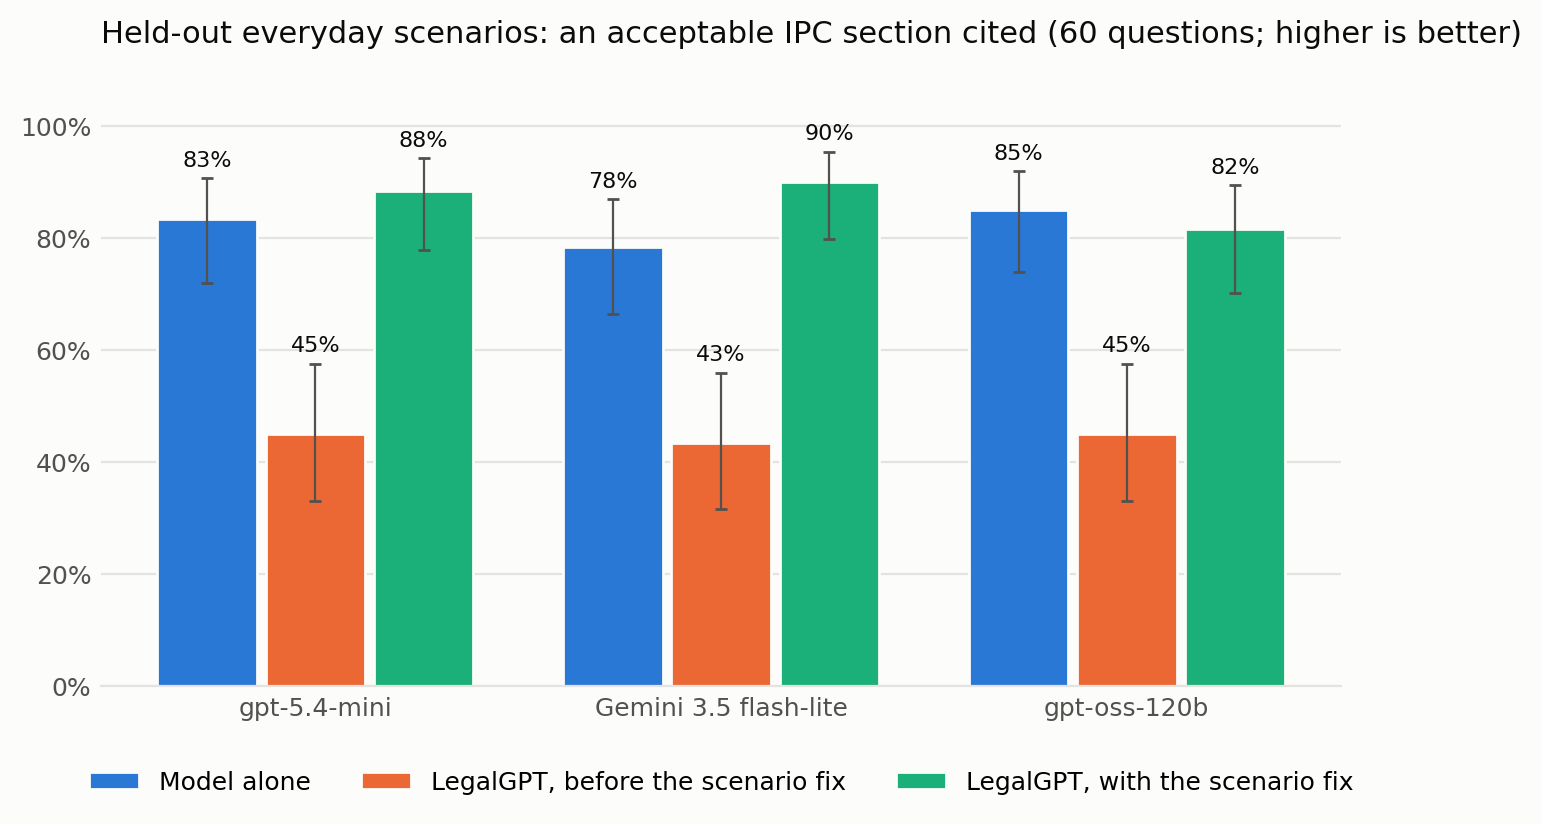
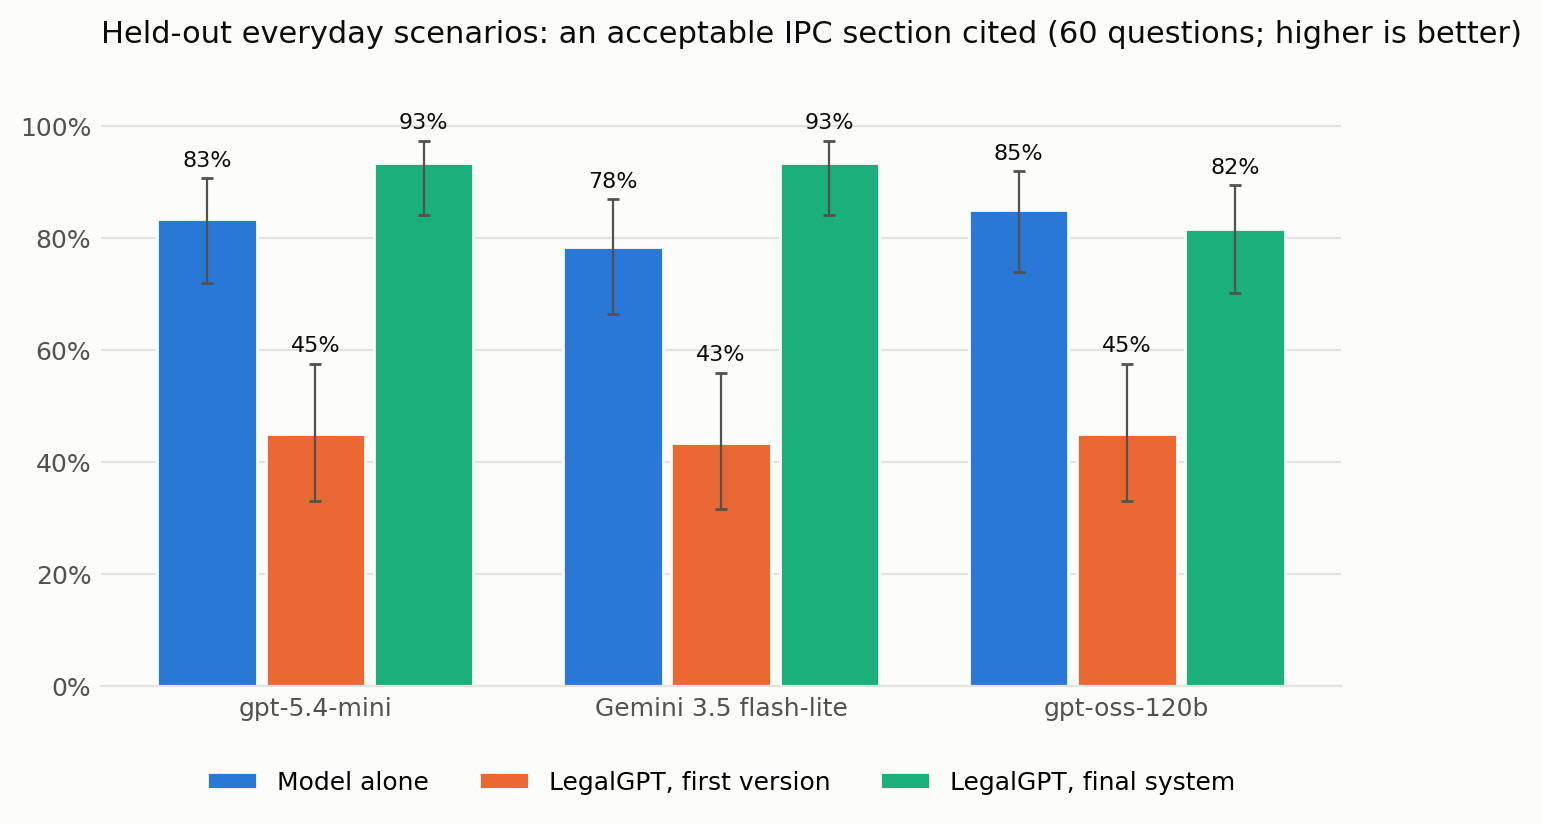
eval: final-system runs for all three hosted models; headline table, figures and report updated
Statute 98-100% vs 41-81% alone (p<=0.002); scenarios 93/93/82% vs 83/78/85% (Gemini p=0.035);
0% wrong punishments and 0% civil questions as offences for all three.

Changed region(s): [[0.0623, 0.9405, 0.8716, 0.9709], [0.4981, 0.1214, 0.5914, 0.2427], [0.2179, 0.1214, 0.3113, 0.2427]]

diff --git a/backend/scripts/make_figures.py b/backend/scripts/make_figures.py
@@ -2,7 +2,7 @@
 
   fig1_safety     wrong punishments and civil questions answered as offences: each model alone vs
                   inside LegalGPT (95% Wilson intervals)
-  fig2_scenarios  held-out everyday scenarios: model alone, LegalGPT before the scenario fix, after it
+  fig2_scenarios  held-out everyday scenarios: model alone, LegalGPT's first version, the final system
   fig3_ablation   retrieval on the held-out scenarios as each component is added
   fig4_size       the local models by size (1.5B / 3B / 7B), once their benchmark runs exist
 
@@ -34,10 +34,10 @@ from paired_tests import items_and_ipc, outcomes  # noqa: E402
 OUT = REPO_ROOT / "docs" / "figures"
 SURFACE, INK, INK2, GRID = "#fcfcfb", "#0b0b0b", "#52514e", "#e4e3df"
 SERIES = ["#2a78d6", "#eb6834", "#1baf7a"]  # categorical slots 1-3 (blue, orange, aqua)
-MODELS = [("gpt-5.4-mini", "closed_openai_gpt-5.4-mini", "legalgpt_openai_gpt-5.4-mini", "legalgpt_openai_gpt-5.4-mini_rw"),
+MODELS = [("gpt-5.4-mini", "closed_openai_gpt-5.4-mini", "legalgpt_openai_gpt-5.4-mini", "legalgpt_openai_gpt-5.4-mini_final"),
           ("Gemini 3.5 flash-lite", "closed_gemini_gemini-3.5-flash-lite", "legalgpt_gemini_gemini-3.5-flash-lite",
-           "legalgpt_gemini_gemini-3.5-flash-lite_rw"),
-          ("gpt-oss-120b", "closed_openai_gpt-oss-120b", "legalgpt_openai_gpt-oss-120b", "legalgpt_openai_gpt-oss-120b_rw")]
+           "legalgpt_gemini_gemini-3.5-flash-lite_final"),
+          ("gpt-oss-120b", "closed_openai_gpt-oss-120b", "legalgpt_openai_gpt-oss-120b", "legalgpt_openai_gpt-oss-120b_final")]
 
 
 def wilson(k: int, n: int) -> tuple[float, float, float]:
@@ -118,8 +118,8 @@ def fig_scenarios(items, ipc) -> None:
     style(ax, "Held-out everyday scenarios: an acceptable IPC section cited (60 questions; higher is better)")
     grouped(ax, [m[0] for m in MODELS], [
         ("Model alone", [rate(outcomes(m[1], items, ipc), metric) for m in MODELS]),
-        ("LegalGPT, before the scenario fix", [rate(outcomes(m[2], items, ipc), metric) for m in MODELS]),
-        ("LegalGPT, with the scenario fix", [rate(outcomes(m[3], items, ipc), metric) for m in MODELS]),
+        ("LegalGPT, first version", [rate(outcomes(m[2], items, ipc), metric) for m in MODELS]),
+        ("LegalGPT, final system", [rate(outcomes(m[3], items, ipc), metric) for m in MODELS]),
     ], ymax=110)
     ax.legend(frameon=False, fontsize=9, loc="upper center", bbox_to_anchor=(0.5, -0.1), ncol=3)
     save(fig, "fig2_scenarios")

diff --git a/backend/scripts/paired_tests.py b/backend/scripts/paired_tests.py
@@ -43,6 +43,10 @@ PAIRS = [  # (system A, system B, metrics)
     ("legalgpt-lora_v0.7-3b", "legalgpt-heavy_v0.7-7b", list(METRICS)),
     ("legalgpt-lora_v0.7-1.5b", "legalgpt-lora_v0.7-3b", list(METRICS)),
     ("legalgpt-lora_v0.7-1.5b", "legalgpt-heavy_v0.7-7b", list(METRICS)),
+    ("closed_openai_gpt-5.4-mini", "legalgpt_openai_gpt-5.4-mini_final", list(METRICS)),
+    ("legalgpt_openai_gpt-5.4-mini_rw", "legalgpt_openai_gpt-5.4-mini_final", list(METRICS)),
+    ("closed_gemini_gemini-3.5-flash-lite", "legalgpt_gemini_gemini-3.5-flash-lite_final", list(METRICS)),
+    ("closed_openai_gpt-oss-120b", "legalgpt_openai_gpt-oss-120b_final", list(METRICS)),
 ]
 
 

diff --git a/docs/reports/paper_analysis.md b/docs/reports/paper_analysis.md
@@ -15,6 +15,51 @@ All numbers come from the benchmark runs in `data/reports/bench/baselines/` (see
 20 definition questions, 60 held-out scenarios, 30 out-of-scope questions). Scenario and out-of-scope
 labels are **silver** (AI-written) and still need legal review. Scripts are named in each section.
 
+## 0. Headline: the final system (runs `*_final`, 2026-10-15)
+
+These are the numbers for the paper. The final system has every retrieval fix: the lexicon, the
+query rewrite, the retrained scope check and the definition lookup. Each hosted model is compared
+with itself answering alone, on the same questions (exact McNemar tests).
+
+| model | measure | n | model alone | LegalGPT | only alone right | only LegalGPT right | p |
+|---|---|---|---|---|---|---|---|
+| gpt-5.4-mini | right section (statute) | 59 | 75% | **100%** | 0 | 15 | <0.001 |
+| | acceptable section (scenario) | 60 | 83% | **93%** | 4 | 10 | 0.18 |
+| | wrong punishment ↓ | 39 | 15% | **0%** | 6 | 0 | 0.031 |
+| | civil question answered as an offence ↓ | 30 | 47% | **0%** | 14 | 0 | <0.001 |
+| Gemini 3.5 flash-lite | right section (statute) | 59 | 81% | **98%** | 0 | 10 | 0.002 |
+| | acceptable section (scenario) | 60 | 78% | **93%** | 3 | 12 | **0.035** |
+| | wrong punishment ↓ | 39 | 15% | **0%** | 6 | 0 | 0.031 |
+| | civil question answered as an offence ↓ | 30 | 47% | **0%** | 14 | 0 | <0.001 |
+| gpt-oss-120b | right section (statute) | 59 | 41% | **100%** | 0 | 35 | <0.001 |
+| | acceptable section (scenario) | 60 | 85% | 82% | 8 | 6 | 0.79 |
+| | wrong punishment ↓ | 39 | 54% | **0%** | 21 | 0 | <0.001 |
+| | civil question answered as an offence ↓ | 30 | 90% | **0%** | 27 | 0 | <0.001 |
+
+For "only alone right" / "only LegalGPT right" on the ↓ rows, read "only that system made the
+error".
+
+**Claims the tests support:**
+- With all three models, LegalGPT states **no wrong punishments** and treats **no civil question as
+  an offence**; each model alone does both often (p ≤ 0.031).
+- On statute questions LegalGPT is **significantly more accurate** for all three models (98-100% vs
+  41-81%, p ≤ 0.002).
+- On everyday scenarios LegalGPT is **at least at parity**:
+  - significantly better with Gemini (93% vs 78%);
+  - ahead but not significantly with gpt-5.4-mini (93% vs 83%);
+  - level with gpt-oss-120b (82% vs 85%).
+- Scenario accuracy: LegalGPT's first version scored 43-45%; the final system scores 82-93%.
+
+**Final-system details:**
+- Scenario answers citing only wrong sections: 2% / 2% / 13% (gpt-5.4-mini / Gemini / gpt-oss).
+- Scenarios refused: 5% for each model.
+- Cost of the gpt-5.4-mini run: $0.29 for 150 answers.
+- Answers came from Groq and Gemini free tiers. The last 106 gpt-oss answers and the last 34
+  Gemini answers used a second account's key: the same model and host.
+
+Sections 1-2 below were measured on earlier versions (`*_rw`: before the retrained scope check and
+the definition lookup). They are kept because they show what each step changed.
+
 ## 1. Paired significance tests (`backend/scripts/paired_tests.py`)
 
 Every system answers the same questions, so each comparison is paired. Only the questions on which

diff --git a/docs/reports/benchmark_results.md b/docs/reports/benchmark_results.md
@@ -7,7 +7,8 @@ Generated by `backend/scripts/report_experiments.py` from the cached runs. Perce
 Results are **preliminary**: scenario and out-of-scope labels are still silver (AI-written).
 
 **Row names.**
-- `_rw`: the current pipeline, with the scenario fix (LLM query rewrite, expanded lexicon, prompt
+- `_final`: **the final system** (adds the retrained scope check and the definition lookup); the paper's numbers.
+- `_rw`: the earlier pipeline, with the scenario fix (LLM query rewrite, expanded lexicon, prompt
   rule). Rows without a suffix are the earlier pipeline.
 - `legalgpt-lora_v0.7-1.5b` / `_v0.7-3b`, `legalgpt-heavy_v0.7-7b`: the local models by size, trained on identical data.
 - `legalgpt-lora`: v0.4. `_v2`: v0.4 with the new prompt. `_v3` / `_v4`: v0.5 / v0.6, retrained with
@@ -35,10 +36,13 @@ See `benchmark/README.md` for the sets. Statute questions have gold answers from
 | legalgpt-lora_v3 | 80% [68–88] (n=59) | 95% [83–99] (n=39) | 0% [0–9] (n=39) | 43% [32–56] (n=60) | 0% [0–11] (n=30) | 0 of 149 |
 | legalgpt-lora_v4 | 81% [70–89] (n=59) | 92% [80–97] (n=39) | 0% [0–9] (n=39) | 43% [32–56] (n=60) | 0% [0–11] (n=30) | 0 of 149 |
 | legalgpt_gemini_gemini-3.5-flash-lite | 83% [72–91] (n=59) | 100% [91–100] (n=39) | 0% [0–9] (n=39) | 43% [32–56] (n=60) | 0% [0–11] (n=30) | 0 of 149 |
+| legalgpt_gemini_gemini-3.5-flash-lite_final | 98% [91–100] (n=59) | 97% [87–100] (n=39) | 0% [0–9] (n=39) | 93% [84–97] (n=60) | 0% [0–11] (n=30) | 0 of 149 |
 | legalgpt_gemini_gemini-3.5-flash-lite_rw | 85% [73–92] (n=59) | 100% [91–100] (n=39) | 0% [0–9] (n=39) | 90% [80–95] (n=60) | 0% [0–11] (n=30) | 0 of 149 |
 | legalgpt_openai_gpt-5.4-mini | 83% [72–91] (n=59) | 100% [91–100] (n=39) | 0% [0–9] (n=39) | 45% [33–58] (n=60) | 0% [0–11] (n=30) | 0 of 149 |
+| legalgpt_openai_gpt-5.4-mini_final | 100% [94–100] (n=59) | 100% [91–100] (n=39) | 0% [0–9] (n=39) | 93% [84–97] (n=60) | 0% [0–11] (n=30) | 0 of 149 |
 | legalgpt_openai_gpt-5.4-mini_rw | 83% [72–91] (n=59) | 100% [91–100] (n=39) | 0% [0–9] (n=39) | 88% [78–94] (n=60) | 0% [0–11] (n=30) | 0 of 149 |
 | legalgpt_openai_gpt-oss-120b | 83% [72–91] (n=59) | 100% [91–100] (n=39) | 0% [0–9] (n=39) | 45% [33–58] (n=60) | 0% [0–11] (n=30) | 0 of 149 |
+| legalgpt_openai_gpt-oss-120b_final | 100% [94–100] (n=59) | 100% [91–100] (n=39) | 0% [0–9] (n=39) | 82% [70–89] (n=60) | 0% [0–11] (n=30) | 0 of 149 |
 | legalgpt_openai_gpt-oss-120b_rw | 83% [72–91] (n=59) | 100% [91–100] (n=39) | 0% [0–9] (n=39) | 82% [70–89] (n=60) | 0% [0–11] (n=30) | 0 of 149 |
 
 ## 2. Counterfactual test: LLM + rules vs LLM alone
